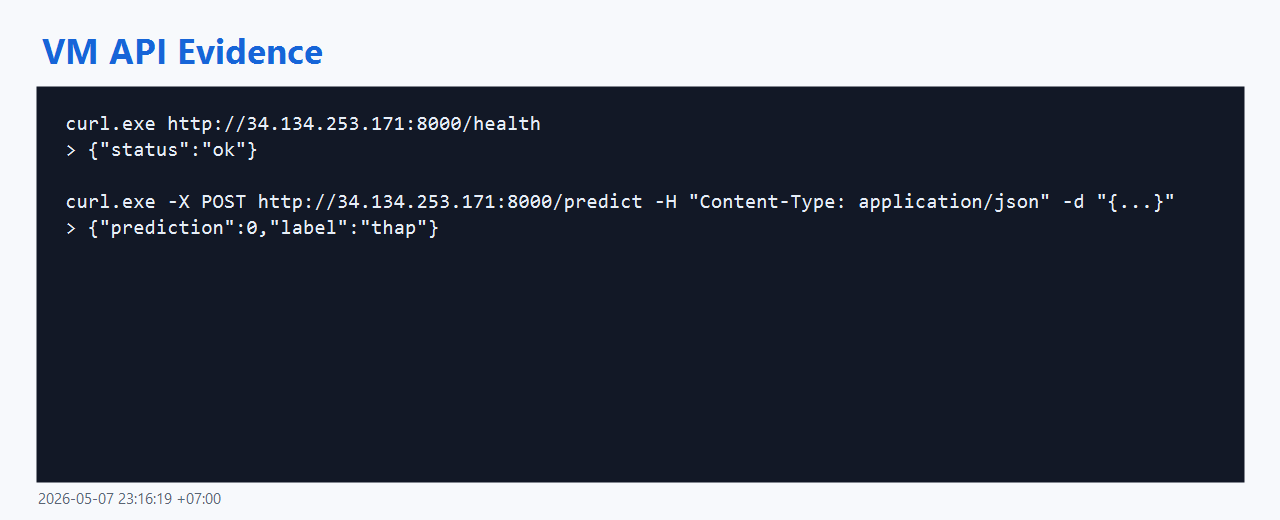
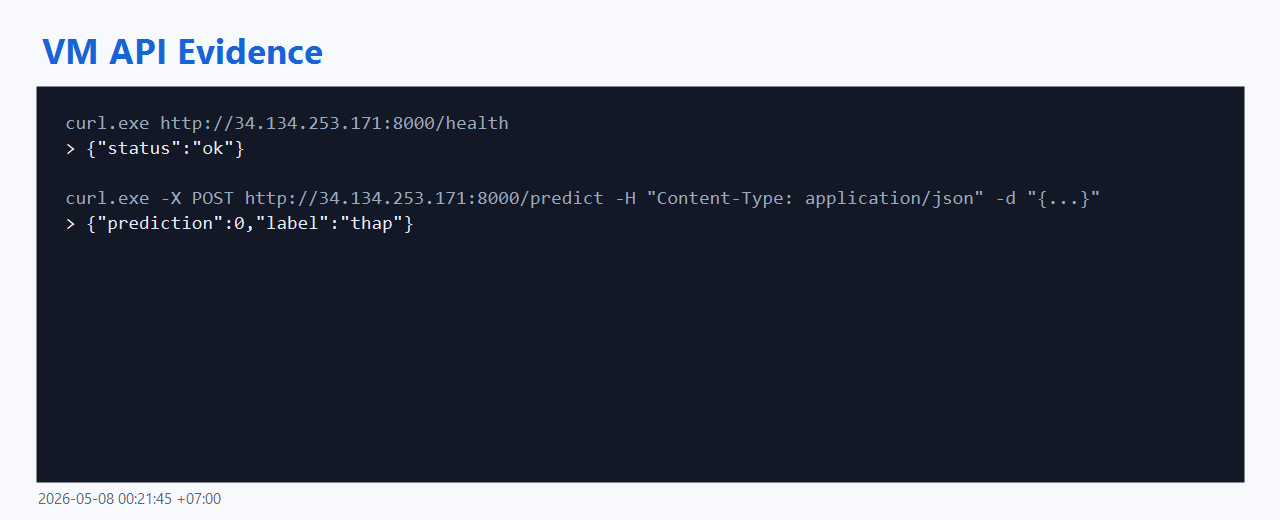
docs: record latest ci evidence

Changed region(s): [[0.0312, 0.3692, 0.9062, 0.4615], [0.0312, 0.2154, 0.4375, 0.3077], [0.0625, 0.9538, 0.125, 0.9846]]

diff --git a/submission/EVIDENCE.md b/submission/EVIDENCE.md
@@ -57,7 +57,10 @@ Objects:
 
 ```text
 gs://vin-mlops-lab-757312350-bucket/dvc/files/md5/58/53e7711c78f02286e65fca6cb6e124
+gs://vin-mlops-lab-757312350-bucket/dvc/files/md5/64/53f2f5cac61359410969b8708a1b22
+gs://vin-mlops-lab-757312350-bucket/dvc/files/md5/6b/364476204c84eed29c25061ede898b
 gs://vin-mlops-lab-757312350-bucket/dvc/files/md5/b1/1de6b7adaa93a44278fd7e168b2288
+gs://vin-mlops-lab-757312350-bucket/dvc/files/md5/e7/d8293d8d3f387490a0103bab0104ab
 gs://vin-mlops-lab-757312350-bucket/dvc/files/md5/fd/073d6651b2ff224c0da1eb1c049a32
 gs://vin-mlops-lab-757312350-bucket/models/latest/model.pkl
 gs://vin-mlops-lab-757312350-bucket/outputs/latest/metrics.json
@@ -68,14 +71,34 @@ gs://vin-mlops-lab-757312350-bucket/outputs/latest/report.txt
 
 ```json
 {
-  "accuracy": 0.746,
-  "f1_score": 0.7449481408322124,
+  "accuracy": 0.748,
+  "f1_score": 0.7472470244898887,
   "label_distribution": {
-    "0": 0.3685790527018012,
-    "1": 0.43512341561040696,
-    "2": 0.19629753168779185
+    "0": 0.36630929174788823,
+    "1": 0.43810916179337234,
+    "2": 0.19558154645873943
   }
 }
+```
+
+## GitHub Actions
+
+Latest successful full pipeline:
+
+```text
+Run: https://github.com/CaoDieuLy/Day21-Track2-CI-CD-for-AI-Systems/actions/runs/25510435090
+Commit: 2922a82651b603032f9022f5f2ce3a04bda1d9c0
+Jobs: Unit Test, Train, Eval, Deploy all success
+Artifact: model-outputs
+```
+
+Continuous-training data commits:
+
+```text
+e7ed636 data: trigger continuous training update
+83931c1 data: add step 3 continuous training sample
+2922a82 data: final step 3 trigger sample
+ad48f0b data: mark step 3 continuous trigger metadata
 ```
 
 ## Bonus Status
@@ -87,6 +110,11 @@ Bonus 3: Automated report written to outputs/report.txt and uploaded as artifact
 Bonus 4: Rollback guard compares new accuracy against deployed metrics in GCS.
 Bonus 5: Label distribution is logged and saved in metrics.json.
 ```
+
+Note: the workflow supports DagsHub MLflow tracking through
+`MLFLOW_TRACKING_URI`, `MLFLOW_TRACKING_USERNAME`, and
+`MLFLOW_TRACKING_PASSWORD` secrets. Those secrets must point to a real DagsHub
+repo/token for remote DagsHub evidence.
 
 ## CI/CD Cloud Auth
 

diff --git a/submission/REPORT.md b/submission/REPORT.md
@@ -16,14 +16,14 @@ min_samples_split: 2
 Evaluation result:
 
 ```text
-accuracy = 0.7460
-f1_score = 0.7449
+accuracy = 0.7480
+f1_score = 0.7472
 ```
 
 This configuration was selected because it produced the highest held-out
-evaluation accuracy among the MLflow runs. The first phase of training reached
-about 0.682 accuracy, while adding the second training phase increased accuracy
-to 0.746 and passed the 0.70 deployment gate.
+evaluation accuracy among the MLflow and CI runs. The first phase of training
+reached about 0.682 accuracy, while continuous-training data updates increased
+accuracy to 0.748 and passed the 0.70 deployment gate.
 
 ## Difficulties And Solutions
 
@@ -39,5 +39,5 @@ name conflict. A dedicated `mlops` user and SSH deploy key were configured
 instead.
 
 The first model trained only on `train_phase1.csv` did not pass the 0.70 gate.
-After the DVC-tracked continuous-training update, `train_phase1.csv` contained
-5996 samples and the model passed the gate with 0.746 accuracy.
+After the DVC-tracked continuous-training updates, `train_phase1.csv` contained
+6156 samples and the model passed the gate with 0.748 accuracy.

diff --git a/submission/screenshots/README.md b/submission/screenshots/README.md
@@ -4,12 +4,12 @@ Generated evidence screenshots:
 
 - `01_mlflow_ui.png`: local MLflow UI with many runs.
 - `01b_mlflow_runs_metrics.png`: MLflow run metrics summary with accuracy/f1.
+- `02_github_actions_status.png`: GitHub Actions run showing a successful pipeline.
 - `03_api_output.png`: API `/health` and `/predict` output evidence.
 - `04_gcs_objects.png`: GCS bucket object listing evidence.
 - `06_bonus2_algorithm_runs.png`: MLflow evidence for multiple model algorithms.
 
 Remaining manual UI screenshot needed for full submission:
 
-- A green GitHub Actions run after enabling/running Actions in GitHub.
 - GCP Cloud Storage Console UI if the grader requires the web console rather than CLI evidence.
 - DagsHub MLflow UI after DagsHub secrets are configured and the workflow runs.